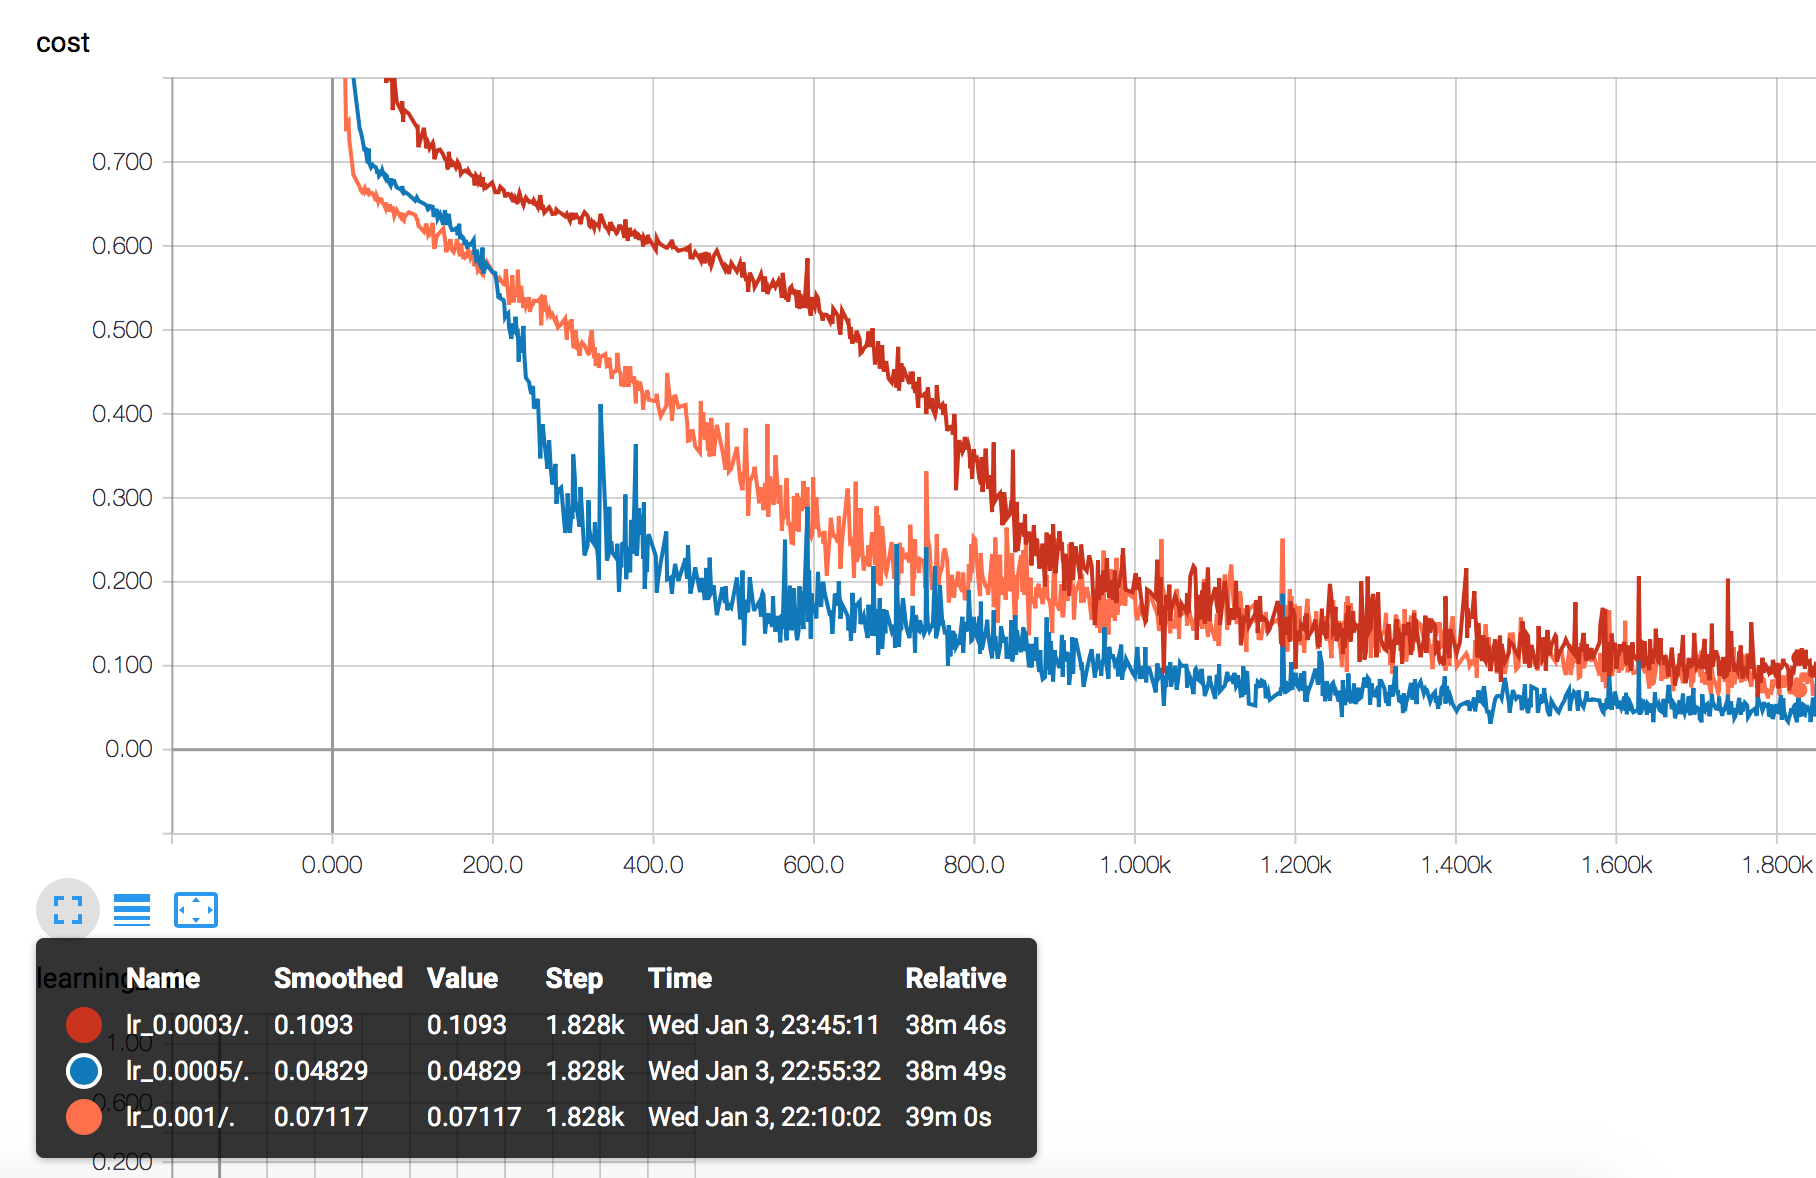
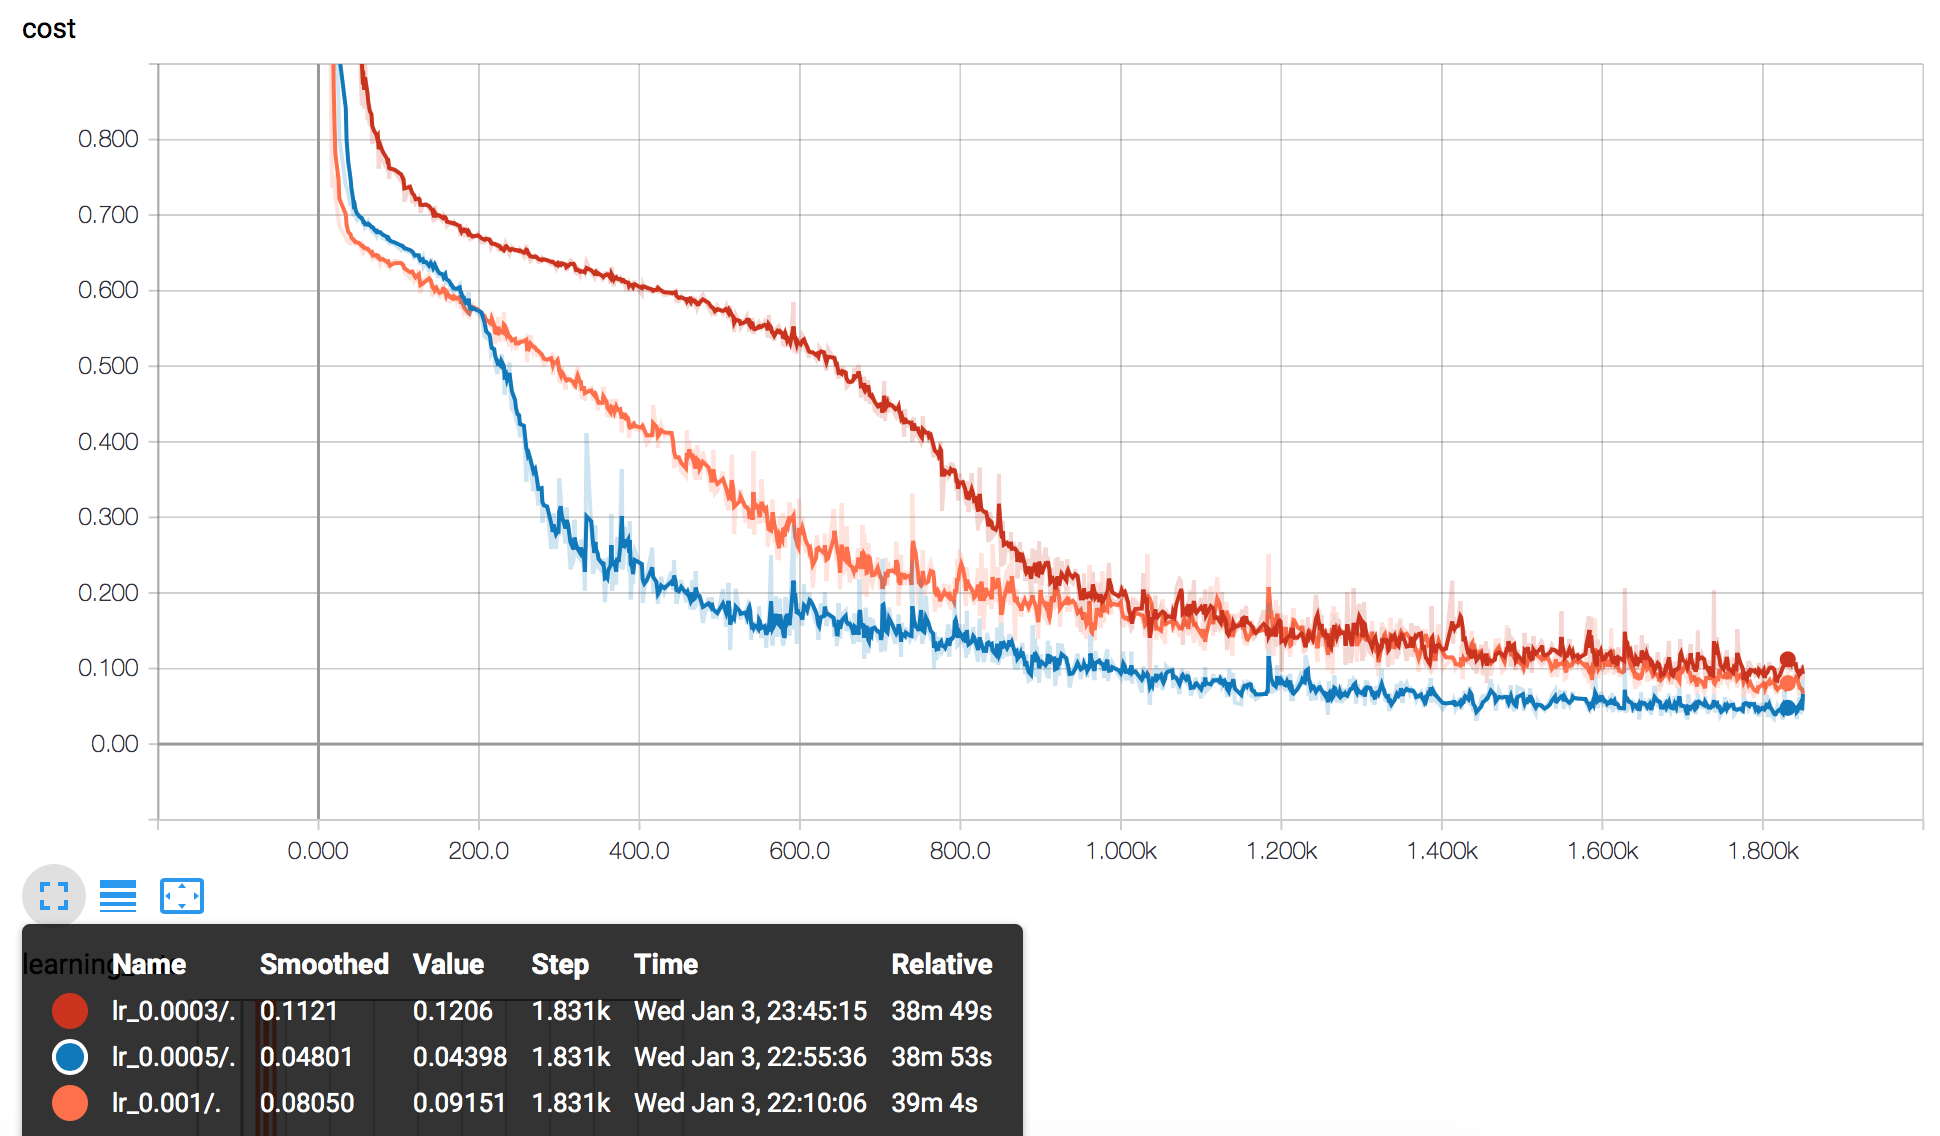
ready for submission

diff --git a/project_summary.md b/project_summary.md
@@ -1,10 +1,28 @@
 
 ## Introduction
-In this project, we practiced encoder and decoder, based on VGG model
-briefly, the pool layer 7,4,3 were loaded and decoded to the size of the original image, and overlayed. 
+In this project, we practiced implementing a fully convolutional network based on a frozen trained VGG model. Especially, we used transposed convolutional operations to make sure the final dimension of the output is the same as the input images, hence enabling semantic segmentation.
 
-## tf graph
+## Overall graph of the model
+From the frozen VGG model, the pooling layer 7,4,3 were loaded and upscaled to the size of the original image. Each layer was first connected to a 1x1 convolutional layer. Then the layers were sequentially combined and upsampled to the dimention of the previous layer, and enventually the dimention of the input image
 
-Brief description           |  Model Graph (tensorboard screenshot)
-:-------------------------:|:-------------------------:
-  haha |  <img src="./figures/graph.jpg" width="400" height="800" />
+Model Graph (tensorboard screenshot):
+<img src="./figures/graph.jpg" width="400" height="800" />
+
+## Tuning parameters
+Lots of parameters to tune, such as BATCH_SIZE, total EPOCH number, and initial learning rate.
+Finally, BATCH_SIZE of 8, EPOCH number of 50, and 0.0005 as the initial learning rate were chosen.
+Here is the example of compaing 3 different initial learning rate (screenshot of the tensorboard):
+
+lr (learning rate) = 0.001 (orange)
+
+lr (learning rate) = 0.0005 (blue)
+
+lr (learning rate) = 0.0003 (red)
+
+Finally, chose 0.0005 as the initial learning rate.
+<img src="./figures/compare_learning_rate.png" width="800" height="400" />
+
+## Example output
+Overall, the results are decent. 
+Here are eight random images from the best run
+<img src="./figures/results_check.png" width="800" height="800" />
